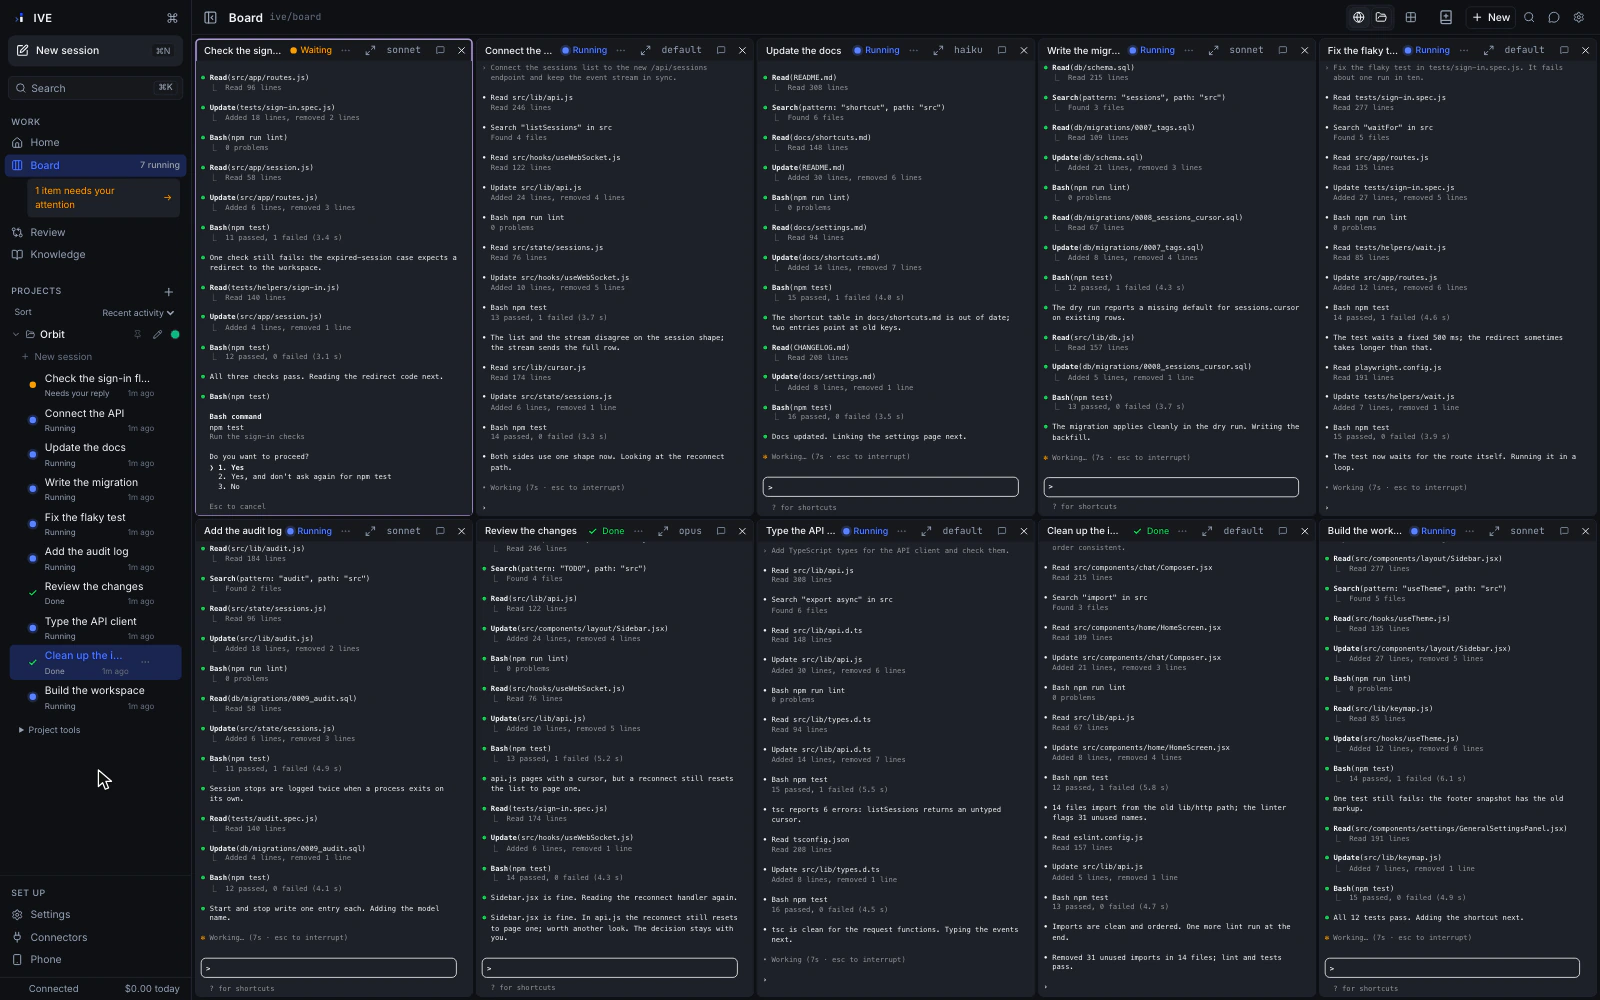
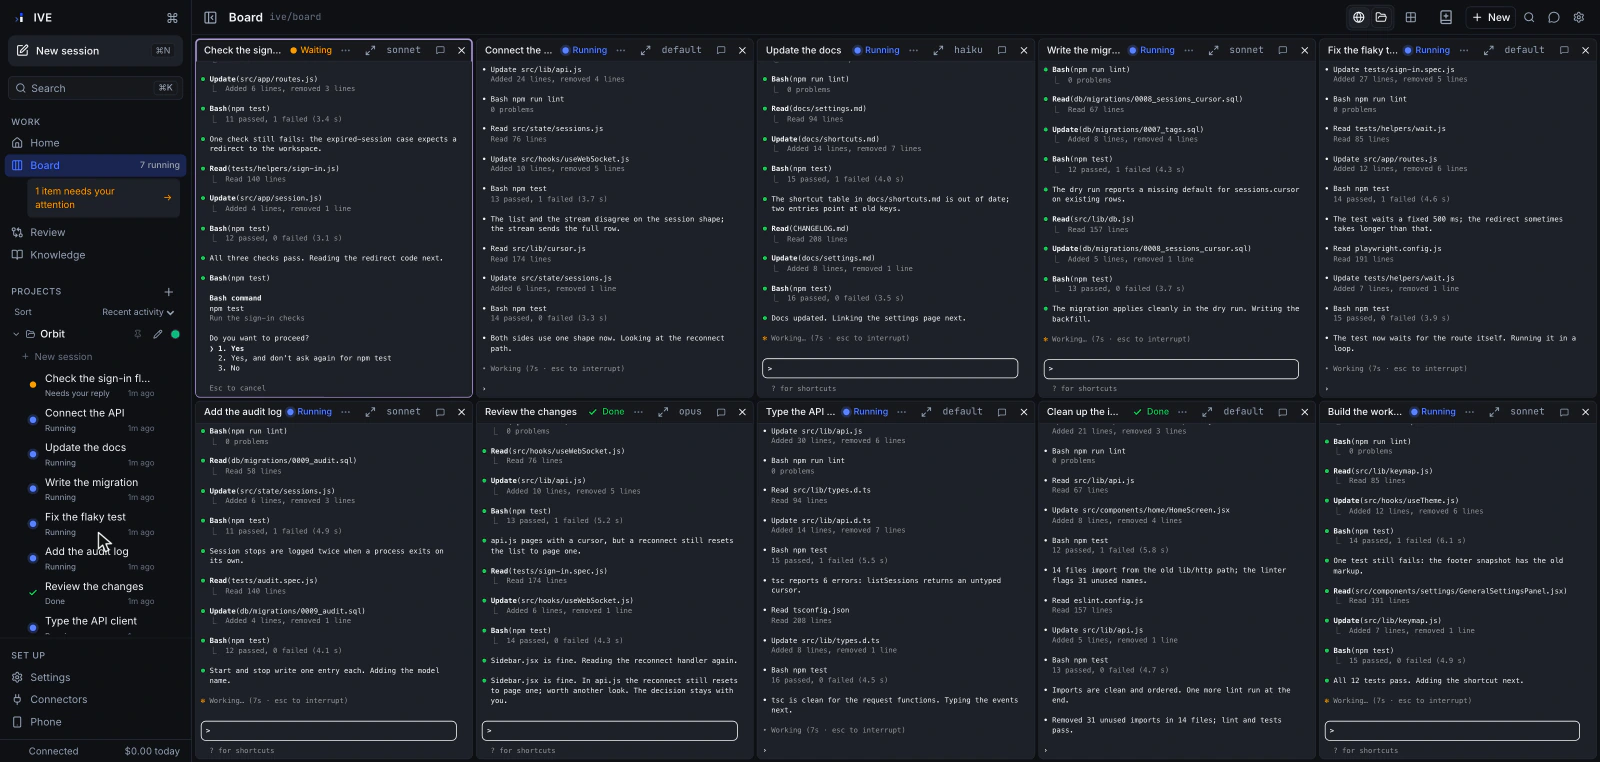
fix: preserve the original demo poster dimensions

Changed region(s): [[0.0, 0.0, 1.0, 0.9961], [0.5938, 0.7546, 0.625, 0.815], [0.0625, 0.3018, 0.0938, 0.332]]

diff --git a/index.html b/index.html
@@ -86,7 +86,7 @@
 <section class="ws-hero wrap" id="hero" aria-labelledby="hero-title">
 <div class="ws-hero-copy"><div><p class="ws-kicker">The workspace for coding agents</p><h1 id="hero-title">Your agents.<br>One workspace<span class="pop-stop">.</span></h1></div><div class="ws-hero-aside"><p class="ws-lead">Run tasks in parallel. Answer when you’re needed. Review what changed. All in one place.</p><div class="ws-actions"><a class="btn btn-fill" href="try.html">Try it yourself <svg class="icon" viewBox="0 0 16 16" aria-hidden="true"><path d="M2.75 8h10.5M9 3.75 13.25 8 9 12.25"/></svg></a><a class="btn btn-outline" href="https://github.com/michaelAGI/ive/releases/latest/download/IVE-macOS-arm64.dmg" data-mac-download><span data-mac-download-label>Download for Mac</span></a></div><p class="ws-small">Open source. No IVE account.<br><a class="updates-hero-link" href="#updates">Get beta invites &amp; updates</a></p></div></div>
 <div class="ws-agent-strip"><span class="ws-agent-intro">Bring your agents</span><span class="ws-agent">Claude Code</span><span class="ws-agent">Codex</span><span class="ws-agent">Gemini</span><a href="#your-setup" class="ws-agent-detail">Your existing CLI logins <svg class="icon" viewBox="0 0 16 16" aria-hidden="true"><path d="M2.75 8h10.5M9 3.75 13.25 8 9 12.25"/></svg></a></div>
-<div class="ws-explorer ws-hero-explorer" data-ws-tabs><div class="ws-tabs" role="tablist" aria-label="Workspace views"><button class="ws-tab" id="workspace-tab-0" type="button" role="tab" aria-selected="true" aria-controls="workspace-panel-0" tabindex="0" data-ws-tab><span>Parallel agents</span><small>Every terminal in view</small></button><button class="ws-tab" id="workspace-tab-1" type="button" role="tab" aria-selected="false" aria-controls="workspace-panel-1" tabindex="-1" data-ws-tab><span>Your terminal</span><small>Work the way you know</small></button><button class="ws-tab" id="workspace-tab-2" type="button" role="tab" aria-selected="false" aria-controls="workspace-panel-2" tabindex="-1" data-ws-tab><span>Code review</span><small>See what changed</small></button></div><div class="ws-tab-panel" id="workspace-panel-0" role="tabpanel" aria-labelledby="workspace-tab-0" tabindex="0" data-ws-panel ><figure class="frame ws-preview  " data-demo="terminals" data-demo-theme="dark" data-demo-title="Your terminals, side by side. Each task keeps its own session." data-demo-params="minScale=0.8"><div class="frame-media"><img class="frame-poster" src="assets/workspace/terminals-dark.webp?v=20261117-69a9dfa835b4" width="1600" height="1000" alt="Your terminals, side by side. Each task keeps its own session." loading="lazy" decoding="async"></div><figcaption class="ws-preview-caption"><span>Your terminals, side by side. Each task keeps its own session.</span><div class="try-row"></div></figcaption></figure></div><div class="ws-tab-panel" id="workspace-panel-1" role="tabpanel" aria-labelledby="workspace-tab-1" tabindex="0" data-ws-panel hidden><figure class="frame ws-preview  " data-demo="terminal" data-demo-theme="dark" data-demo-title="The CLI you know, with the whole conversation one click away." data-demo-params="minScale=0.8"><div class="frame-media"><img class="frame-poster" src="assets/workspace/terminal-dark.webp" width="1600" height="1000" alt="The CLI you know, with the whole conversation one click away." loading="lazy" decoding="async"></div><figcaption class="ws-preview-caption"><span>The CLI you know, with the whole conversation one click away.</span><div class="try-row"></div></figcaption></figure></div><div class="ws-tab-panel" id="workspace-panel-2" role="tabpanel" aria-labelledby="workspace-tab-2" tabindex="0" data-ws-panel hidden><figure class="frame ws-preview  " data-demo="review" data-demo-theme="dark" data-demo-title="Review changed files and diffs without leaving IVE." data-demo-params=""><div class="frame-media"><img class="frame-poster" src="assets/demo/posters/review-dark.webp" width="1600" height="1000" alt="Review changed files and diffs without leaving IVE." loading="lazy" decoding="async"></div><figcaption class="ws-preview-caption"><span>Review changed files and diffs without leaving IVE.</span><div class="try-row"></div></figcaption></figure></div></div>
+<div class="ws-explorer ws-hero-explorer" data-ws-tabs><div class="ws-tabs" role="tablist" aria-label="Workspace views"><button class="ws-tab" id="workspace-tab-0" type="button" role="tab" aria-selected="true" aria-controls="workspace-panel-0" tabindex="0" data-ws-tab><span>Parallel agents</span><small>Every terminal in view</small></button><button class="ws-tab" id="workspace-tab-1" type="button" role="tab" aria-selected="false" aria-controls="workspace-panel-1" tabindex="-1" data-ws-tab><span>Your terminal</span><small>Work the way you know</small></button><button class="ws-tab" id="workspace-tab-2" type="button" role="tab" aria-selected="false" aria-controls="workspace-panel-2" tabindex="-1" data-ws-tab><span>Code review</span><small>See what changed</small></button></div><div class="ws-tab-panel" id="workspace-panel-0" role="tabpanel" aria-labelledby="workspace-tab-0" tabindex="0" data-ws-panel ><figure class="frame ws-preview  " data-demo="terminals" data-demo-theme="dark" data-demo-title="Your terminals, side by side. Each task keeps its own session." data-demo-params="minScale=0.8"><div class="frame-media"><img class="frame-poster" src="assets/workspace/terminals-dark.webp?v=20261117-920394a4dffc" width="1600" height="1000" alt="Your terminals, side by side. Each task keeps its own session." loading="lazy" decoding="async"></div><figcaption class="ws-preview-caption"><span>Your terminals, side by side. Each task keeps its own session.</span><div class="try-row"></div></figcaption></figure></div><div class="ws-tab-panel" id="workspace-panel-1" role="tabpanel" aria-labelledby="workspace-tab-1" tabindex="0" data-ws-panel hidden><figure class="frame ws-preview  " data-demo="terminal" data-demo-theme="dark" data-demo-title="The CLI you know, with the whole conversation one click away." data-demo-params="minScale=0.8"><div class="frame-media"><img class="frame-poster" src="assets/workspace/terminal-dark.webp" width="1600" height="1000" alt="The CLI you know, with the whole conversation one click away." loading="lazy" decoding="async"></div><figcaption class="ws-preview-caption"><span>The CLI you know, with the whole conversation one click away.</span><div class="try-row"></div></figcaption></figure></div><div class="ws-tab-panel" id="workspace-panel-2" role="tabpanel" aria-labelledby="workspace-tab-2" tabindex="0" data-ws-panel hidden><figure class="frame ws-preview  " data-demo="review" data-demo-theme="dark" data-demo-title="Review changed files and diffs without leaving IVE." data-demo-params=""><div class="frame-media"><img class="frame-poster" src="assets/demo/posters/review-dark.webp" width="1600" height="1000" alt="Review changed files and diffs without leaving IVE." loading="lazy" decoding="async"></div><figcaption class="ws-preview-caption"><span>Review changed files and diffs without leaving IVE.</span><div class="try-row"></div></figcaption></figure></div></div>
 <div class="ws-hero-tail"><a class="ws-text-link" href="product.html">Explore the whole app <svg class="icon" viewBox="0 0 16 16" aria-hidden="true"><path d="M2.75 8h10.5M9 3.75 13.25 8 9 12.25"/></svg></a></div>
 </section>
 <section class="ws-attention wrap" id="why" aria-labelledby="attention-title"><div class="ws-section-copy"><p class="ws-kicker">Less checking in</p><h2 id="attention-title">Know when<br>it’s your turn.</h2><p class="ws-lead">Keep the work moving without hunting through tabs. IVE makes the session that needs your answer visible.</p><dl class="ws-states"><div><dt><span class="ws-state-dot running"></span>Working</dt><dd>Let the agent carry on.</dd></div><div><dt><span class="ws-state-dot waiting"></span>Needs you</dt><dd>Answer right on the board.</dd></div><div><dt><span class="ws-state-dot done"></span>Ready to review</dt><dd>Open the diff and make the call.</dd></div></dl><a class="ws-text-link" href="try.html?at=attention&amp;tour=0">Try answering a request <svg class="icon" viewBox="0 0 16 16" aria-hidden="true"><path d="M2.75 8h10.5M9 3.75 13.25 8 9 12.25"/></svg></a></div><figure class="frame ws-preview ws-attention-preview is-light" data-demo="attention" data-demo-theme="light" data-demo-title="A permission request, right where the work is happening." data-demo-params=""><div class="frame-media"><img class="frame-poster" src="assets/workspace/attention-light.webp" width="1600" height="1000" alt="A permission request, right where the work is happening." loading="lazy" decoding="async"></div><figcaption class="ws-preview-caption"><span>A permission request, right where the work is happening.</span><div class="try-row"></div></figcaption></figure></section>
